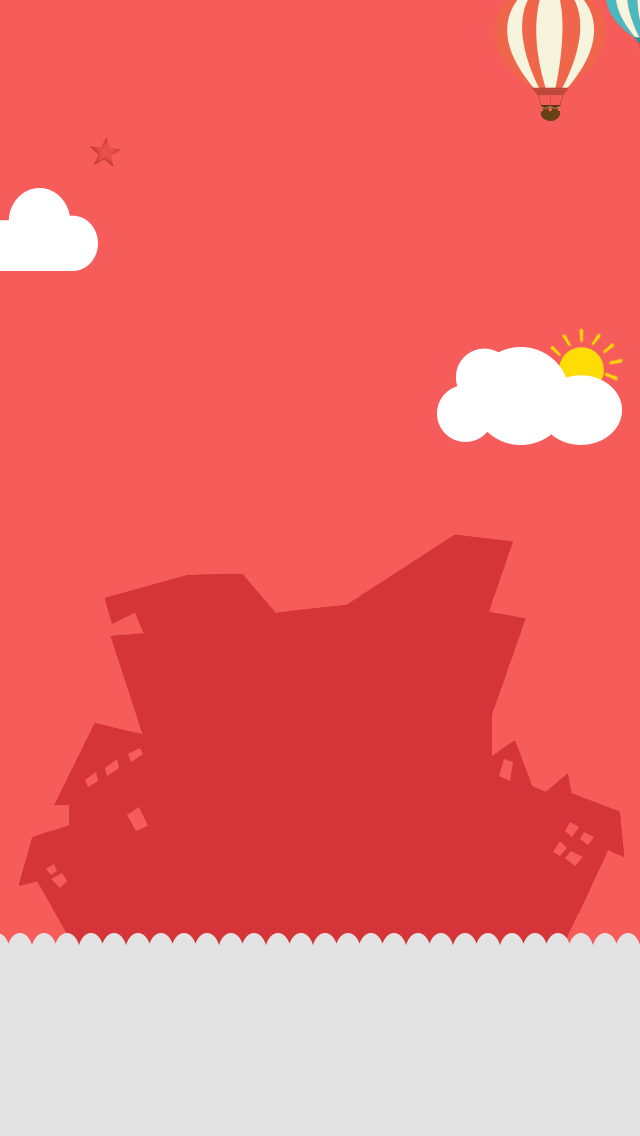
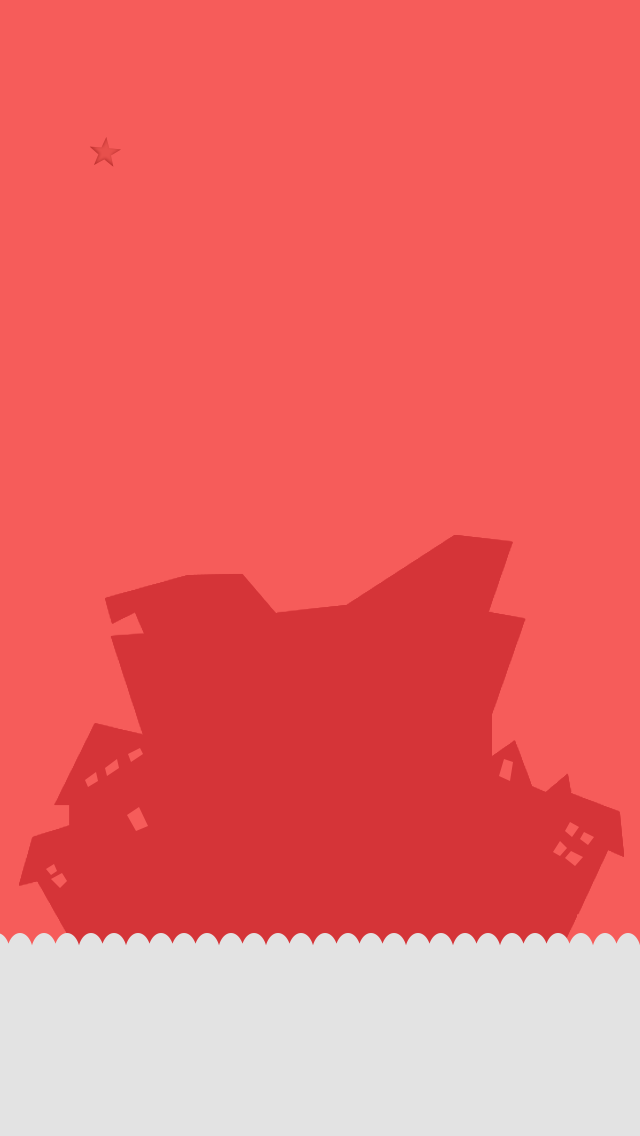
style: 优化样式

Changed region(s): [[0.6875, 0.2773, 0.9688, 0.4005], [0.7812, 0.0, 1.0, 0.1232], [0.0, 0.154, 0.1562, 0.2465]]

diff --git a/src/css/style.scss b/src/css/style.scss
@@ -8,16 +8,16 @@ body {
 }
 @keyframes shake {
   0% {
-    transform: rotate(0deg);
+    transform: translateZ(1000px) rotate(0deg);
   }
   25% {
-    transform: rotate(-3deg);
+    transform: translateZ(1000px) rotateX(-20deg) rotate(-6deg);
   }
   75% {
-    transform: rotate(3deg);
+    transform: translateZ(1000px) rotateX(20deg) rotate(6deg);
   }
   100% {
-    transform: rotate(0deg);
+    transform: translateZ(1000px)rotate(0deg);
   }
 }
 @keyframes fadeIn {
@@ -29,6 +29,54 @@ body {
     opacity: 1;
   }
 }
+@keyframes fly {
+  0% {
+    transform: translate3d(.2rem, .4rem , 0);
+  }
+  20% {
+    transform: translate3d(0rem, .2rem, 0) scale(1.1);
+  }
+  40% {
+    transform: translate3d(-.2rem, 0rem, 0);
+  }
+  50% {
+    transform: translate3d(-.1rem, .2rem, 0) scale(0.9);
+  }
+  70% {
+    transform: translate3d(.1rem, .1rem, 0) scale(1.1);
+  }
+  90% {
+    transform: translate3d(.3rem, .3rem, 0) scale(0.9);
+  }
+  100% {
+    transform: translate3d(.2rem, .4rem, 0);
+  }
+}
+@keyframes rotate {
+  from {
+    transform: rotate(0)
+  }
+  to {
+    transform: rotate(360deg)
+  }
+}
+@keyframes scale {
+  0% {
+    transform: scale(1) translateX(0)
+  }
+  25% {
+    transform: scale(.96) translate(.8rem, .06rem)
+  }
+  50% {
+    transform: scale(1) translate(0rem, .1rem)
+  }
+  75% {
+    transform: scale(1.04) translate(-.8rem, .02rem)
+  }
+  100% {
+    transform: scale(1) translate(0)
+  }
+}
 .g-container {
   width: 100vw;
   height: 100vh;
@@ -38,6 +86,49 @@ body {
     width: 100%;
     height: 100%;
   }
+  .u-bull {
+    position: absolute;
+    z-index: 2;
+  }
+  .u-bull1 {
+    width: 1.12rem;
+    height: 1.21rem;
+    top: 0;
+    right: .4rem;
+    animation: fly 18s linear infinite;
+  }
+  .u-bull2 {
+    width: .83rem;
+    height: 1.05rem;
+    top: -.2rem;
+    right: 0;
+    animation: fly 12s linear reverse infinite;
+  }
+  .u-cloud {
+    position: absolute;
+    z-index: 3;
+    width: 1.85rem;
+    height: .98rem;
+  }
+  .u-cloud1 {
+    left: 0;
+    top: 3rem;
+    animation: scale 30s linear infinite;
+  }
+  .u-cloud2 {
+    right: .4rem;
+    top: 3.4rem;
+    animation: scale 18s linear reverse infinite;
+  }
+  .u-sun {
+    position: absolute;
+    z-index: 2;
+    width: .84rem;
+    height: .84rem;
+    right: .4rem;
+    top: 3.2rem;
+    animation: rotate 32s linear infinite;
+  }
   .u-shake {
     position: absolute;
     left: 0;
@@ -45,9 +136,11 @@ body {
     bottom: 0rem;
     width: 100vw;
     transform-origin: bottom;
+    z-index: 4;
+    transform-style: preserve-3d;
     &.shake {
       animation: shake .3s;
-      animation-iteration-count: 6;
+      animation-iteration-count: 12;
     }
   }
   .m-modal {
@@ -63,6 +156,7 @@ body {
     text-align: center;
     animation: fadeIn .6s;
     transform: translateZ(0);
+    z-index: 8;
     .u-title {
       font-size: .3rem;
       color: #eb3b25;

diff --git a/src/index.html b/src/index.html
@@ -30,6 +30,11 @@
 <body>
 <div class="g-container">
   <img src="./assets/bg.png" class="u-bg"/>
+  <img src="./assets/bull1.png" class="u-bull u-bull1"/>
+  <img src="./assets/bull2.png" class="u-bull u-bull2"/>
+  <img src="./assets/cloud1.png" class="u-cloud u-cloud1"/>
+  <img src="./assets/cloud1.png" class="u-cloud u-cloud2"/>
+  <img src="./assets/sun.png" class="u-sun"/>
   <img src="./assets/label1.png" class="u-shake J_shake_obj"/>
   <div class="m-modal J_modal" style="display: none">
     <p class="u-title J_result_title"></p>

diff --git a/src/App.js b/src/App.js
@@ -16,7 +16,7 @@ function start() {
       } else {
         alert('没有摇出签哦~请更诚心一些!')
       }
-    }, 1900);
+    }, 3800);
   }
 }
 
@@ -30,7 +30,6 @@ function getResult() {
   document.querySelector('.J_result_get_resolve').setAttribute('data-id', id)
   document.querySelector('.J_modal').style.display = 'block'
 }
-
 
 if (window.DeviceMotionEvent) {
   var speed = 20; // 用来判定的加速度阈值，太大了则很难触发
